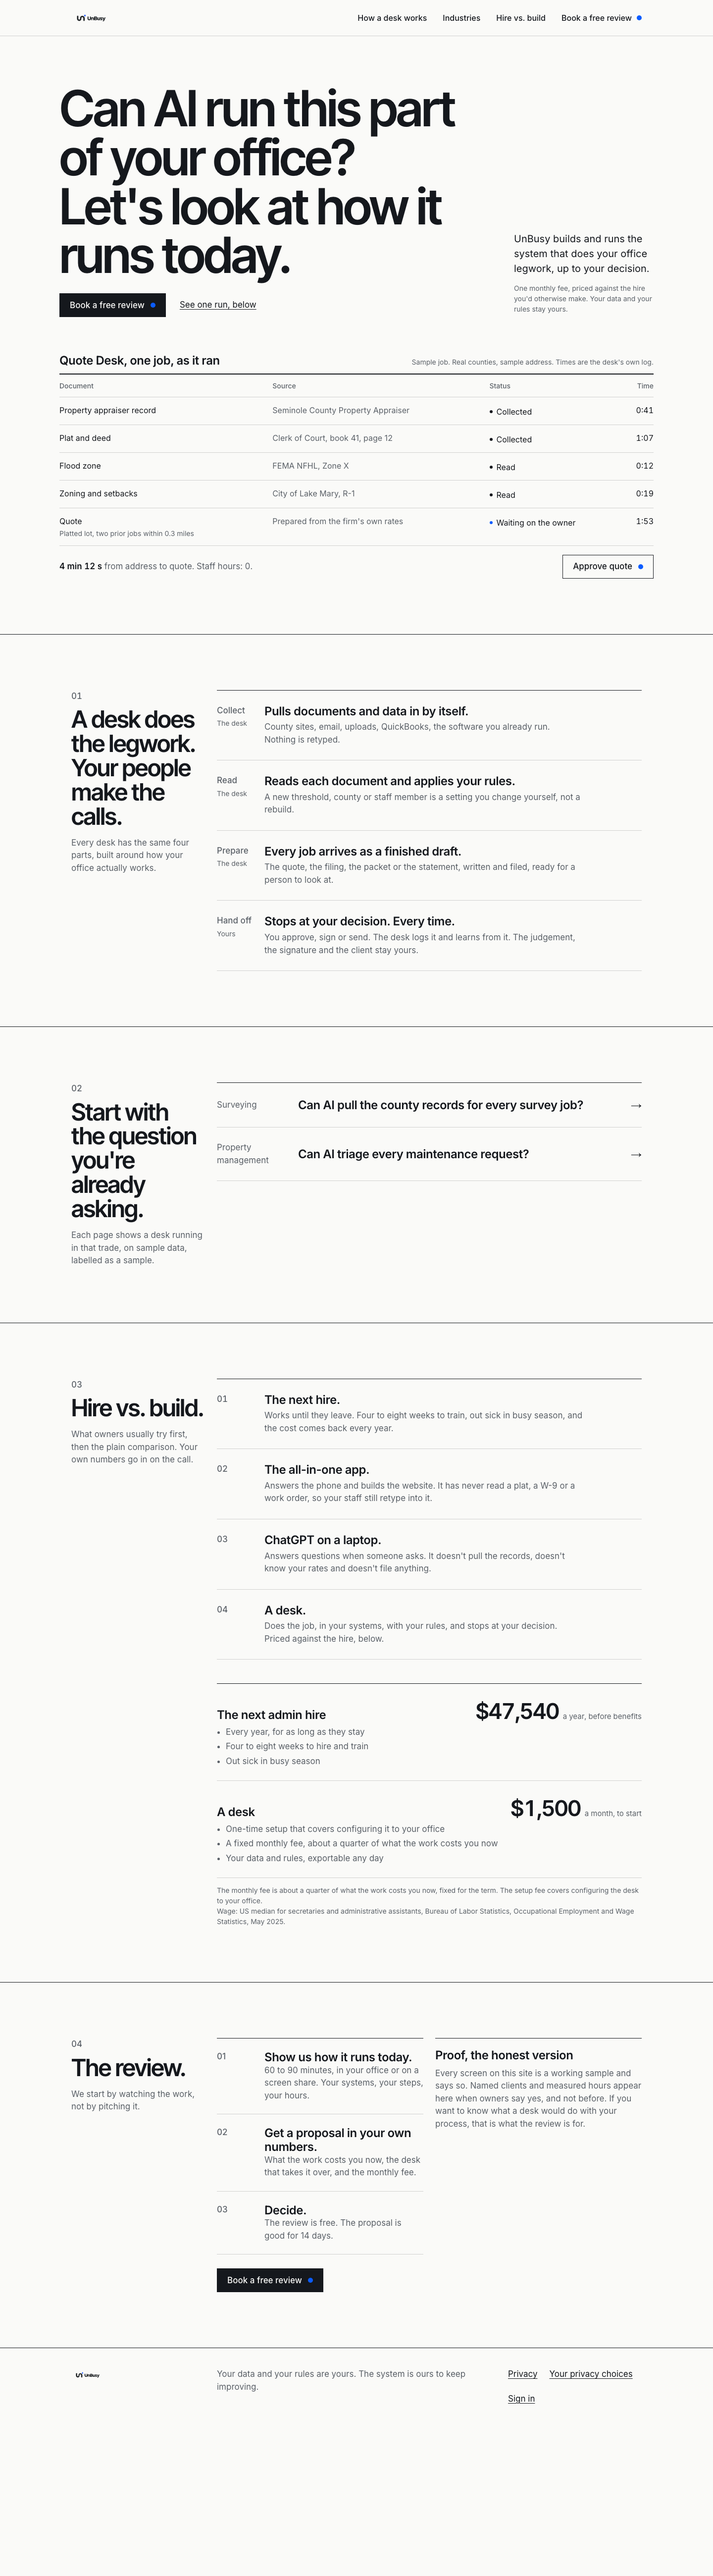
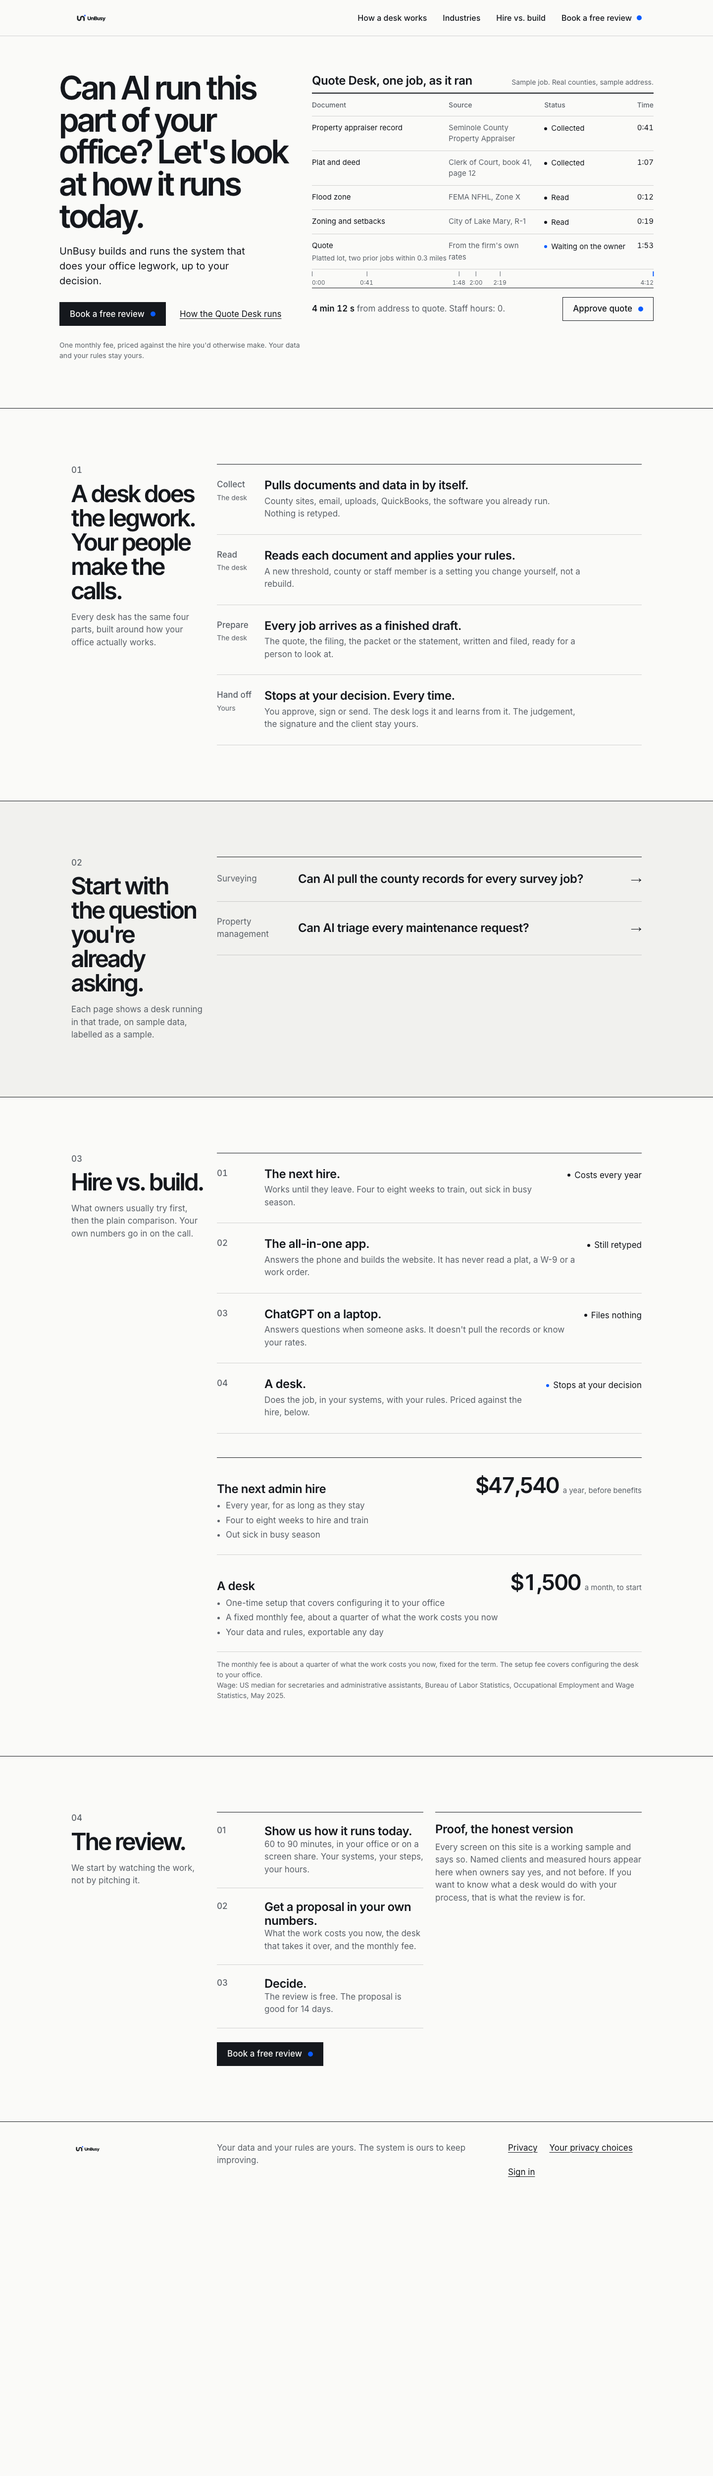
Homepage v2: sheet in the hero, timeline, tonal band, ledger ladder

diff --git a/docs/brand/site-concept/index.html b/docs/brand/site-concept/index.html
@@ -21,38 +21,38 @@
 </nav></div></header>
 
 <main>
-  <div class="wrap grid hero">
-    <div class="c1-9">
-      <h1 class="enter">Can AI run this part of your office?<br>Let's look at how it runs today.</h1>
+  <div class="wrap grid hero hero-split">
+    <div class="c1-5">
+      <h1 class="enter">Can AI run this part of your office? Let's look at how it runs today.</h1>
+      <p class="lead enter d1">UnBusy builds and runs the system that does your office legwork, up to your decision.</p>
       <div class="actions enter d2">
         <a class="btn fill" href="review.html">Book a free review <span class="dot"></span></a>
-        <a class="link" href="#sheet">See one run, below</a>
+        <a class="link" href="surveying.html">How the Quote Desk runs</a>
       </div>
+      <p class="small enter d3" style="margin-top:28px">One monthly fee, priced against the hire you'd otherwise make. Your data and your rules stay yours.</p>
     </div>
-    <div class="c10-12 aside enter d1">
-      <p class="lead">UnBusy builds and runs the system that does your office legwork, up to your decision.</p>
-      <p class="small">One monthly fee, priced against the hire you'd otherwise make. Your data and your rules stay yours.</p>
-    </div>
-  </div>
-
-  <div class="wrap sheet enter d3" id="sheet">
-    <div class="cap">
-      <h3>Quote Desk, one job, as it ran</h3>
-      <span class="small">Sample job. Real counties, sample address. Times are the desk's own log.</span>
-    </div>
-    <table>
-      <thead><tr><th>Document</th><th class="src-col">Source</th><th>Status</th><th class="right time">Time</th></tr></thead>
-      <tbody>
-        <tr><td>Property appraiser record</td><td class="src-col ink2">Seminole County Property Appraiser</td><td><span class="st">Collected</span></td><td class="right num time">0:41</td></tr>
-        <tr><td>Plat and deed</td><td class="src-col ink2">Clerk of Court, book 41, page 12</td><td><span class="st">Collected</span></td><td class="right num time">1:07</td></tr>
-        <tr><td>Flood zone</td><td class="src-col ink2">FEMA NFHL, Zone X</td><td><span class="st">Read</span></td><td class="right num time">0:12</td></tr>
-        <tr><td>Zoning and setbacks</td><td class="src-col ink2">City of Lake Mary, R-1</td><td><span class="st">Read</span></td><td class="right num time">0:19</td></tr>
-        <tr><td>Quote<span class="src">Platted lot, two prior jobs within 0.3 miles</span></td><td class="src-col ink2">Prepared from the firm's own rates</td><td><span class="st wait">Waiting on the owner</span></td><td class="right num time">1:53</td></tr>
-      </tbody>
-    </table>
-    <div class="foot">
-      <span class="num"><strong>4 min 12 s</strong> <span class="ink2">from address to quote. Staff hours: 0.</span></span>
-      <a class="btn" href="surveying.html">Approve quote <span class="dot"></span></a>
+    <div class="c6-12 sheet enter d2" id="sheet">
+      <div class="cap">
+        <h3>Quote Desk, one job, as it ran</h3>
+        <span class="small">Sample job. Real counties, sample address.</span>
+      </div>
+      <table>
+        <thead><tr><th>Document</th><th class="src-col">Source</th><th>Status</th><th class="right time">Time</th></tr></thead>
+        <tbody>
+          <tr><td>Property appraiser record</td><td class="src-col ink2">Seminole County Property Appraiser</td><td><span class="st">Collected</span></td><td class="right num time">0:41</td></tr>
+          <tr><td>Plat and deed</td><td class="src-col ink2">Clerk of Court, book 41, page 12</td><td><span class="st">Collected</span></td><td class="right num time">1:07</td></tr>
+          <tr><td>Flood zone</td><td class="src-col ink2">FEMA NFHL, Zone X</td><td><span class="st">Read</span></td><td class="right num time">0:12</td></tr>
+          <tr><td>Zoning and setbacks</td><td class="src-col ink2">City of Lake Mary, R-1</td><td><span class="st">Read</span></td><td class="right num time">0:19</td></tr>
+          <tr><td>Quote<span class="src">Platted lot, two prior jobs within 0.3 miles</span></td><td class="src-col ink2">From the firm's own rates</td><td><span class="st wait">Waiting on the owner</span></td><td class="right num time">1:53</td></tr>
+        </tbody>
+      </table>
+      <div class="timeline num" aria-hidden="true">
+        <span style="left:0%">0:00</span><span style="left:16%">0:41</span><span style="left:43%">1:48</span><span style="left:48%">2:00</span><span style="left:55%">2:19</span><span class="end" style="left:100%">4:12</span>
+      </div>
+      <div class="foot">
+        <span class="num"><strong>4 min 12 s</strong> <span class="ink2">from address to quote. Staff hours: 0.</span></span>
+        <a class="btn" href="surveying.html">Approve quote <span class="dot"></span></a>
+      </div>
     </div>
   </div>
 
@@ -66,7 +66,7 @@
     </div>
   </div></section>
 
-  <section id="industries"><div class="wrap grid sec">
+  <section id="industries" class="band"><div class="wrap grid sec">
     <div class="c1-3"><div class="n num">02</div><h2>Start with the question you're already asking.</h2><p class="intro">Each page shows a desk running in that trade, on sample data, labelled as a sample.</p></div>
     <div class="c4-12 rows">
       <a class="row" href="surveying.html"><span class="trade">Surveying</span><h3>Can AI pull the county records for every survey job?</h3><span class="arrow">→</span></a>
@@ -78,10 +78,10 @@
     <div class="c1-3"><div class="n num">03</div><h2>Hire vs. build.</h2><p class="intro">What owners usually try first, then the plain comparison. Your own numbers go in on the call.</p></div>
     <div class="c4-12">
       <div class="rows" style="margin-bottom:48px">
-        <div class="row"><div class="n num">01</div><div><h3>The next hire.</h3><p>Works until they leave. Four to eight weeks to train, out sick in busy season, and the cost comes back every year.</p></div></div>
-        <div class="row"><div class="n num">02</div><div><h3>The all-in-one app.</h3><p>Answers the phone and builds the website. It has never read a plat, a W-9 or a work order, so your staff still retype into it.</p></div></div>
-        <div class="row"><div class="n num">03</div><div><h3>ChatGPT on a laptop.</h3><p>Answers questions when someone asks. It doesn't pull the records, doesn't know your rates and doesn't file anything.</p></div></div>
-        <div class="row"><div class="n num">04</div><div><h3>A desk.</h3><p>Does the job, in your systems, with your rules, and stops at your decision. Priced against the hire, below.</p></div></div>
+        <div class="row ledger"><div class="n num">01</div><div><h3>The next hire.</h3><p>Works until they leave. Four to eight weeks to train, out sick in busy season.</p></div><span class="st">Costs every year</span></div>
+        <div class="row ledger"><div class="n num">02</div><div><h3>The all-in-one app.</h3><p>Answers the phone and builds the website. It has never read a plat, a W-9 or a work order.</p></div><span class="st">Still retyped</span></div>
+        <div class="row ledger"><div class="n num">03</div><div><h3>ChatGPT on a laptop.</h3><p>Answers questions when someone asks. It doesn't pull the records or know your rates.</p></div><span class="st">Files nothing</span></div>
+        <div class="row ledger"><div class="n num">04</div><div><h3>A desk.</h3><p>Does the job, in your systems, with your rules. Priced against the hire, below.</p></div><span class="st wait">Stops at your decision</span></div>
       </div>
       <div class="figs">
         <div class="fig"><div><h3>The next admin hire</h3><ul><li>Every year, for as long as they stay</li><li>Four to eight weeks to hire and train</li><li>Out sick in busy season</li></ul></div><div class="amt num">$47,540<small>a year, before benefits</small></div></div>

diff --git a/docs/brand/site-concept/site.css b/docs/brand/site-concept/site.css
@@ -130,3 +130,25 @@
 .sheet.run tbody tr.on, .sheet.run .foot.on { opacity:1; transform:none; }
 .row .n .small { display:block; font-weight:400; margin-top:2px; }
 @media (prefers-reduced-motion:reduce) { .sheet.run tbody tr, .sheet.run .foot { opacity:1; transform:none; transition:none; } }
+
+/* v2: the product in the fold */
+.c1-5 { grid-column:1/6; } .c6-12 { grid-column:6/13; }
+.hero-split { padding:72px 0 96px; align-items:start; }
+.hero-split h1 { font-size:clamp(40px,4.6vw,66px); }
+.hero-split .lead { margin-top:24px; max-width:30ch; }
+.hero-split .sheet { padding:0; border-top:0; }
+.hero-split .sheet table { font-size:15px; }
+.hero-split .sheet td { padding:12px 0; }
+.hero-split .sheet .cap { padding:4px 0 10px; }
+.timeline { position:relative; height:34px; margin-top:4px; border-bottom:1px solid var(--rule-strong); }
+.timeline span { position:absolute; top:0; transform:translateX(-50%); font-size:12px; color:var(--ink-2); padding-top:14px; }
+.timeline span::before { content:""; position:absolute; left:50%; top:0; width:1px; height:10px; background:var(--ink-2); }
+.timeline span.end { transform:translateX(-100%); } .timeline span.end::before { left:auto; right:0; background:var(--blue); width:2px; }
+.timeline span:first-child { transform:none; } .timeline span:first-child::before { left:0; }
+section.band { background:var(--paper-2); border-top:1px solid var(--rule-strong); }
+.row.ledger { grid-template-columns:72px 1fr auto; align-items:start; }
+.row.ledger .st { margin-top:4px; }
+@media (max-width:900px) { .hero-split .sheet { margin-top:32px; } .row.ledger { grid-template-columns:72px 1fr; } .row.ledger .st { grid-column:2; } }
+@media (max-width:600px) { .row.ledger { grid-template-columns:1fr; } .row.ledger .st { grid-column:1; } }
+.hero-split .sheet td:nth-child(3), .hero-split .sheet th:nth-child(3) { padding-right:20px; white-space:nowrap; }
+.hero-split .sheet td:nth-child(2) { width:28%; padding-right:16px; }
